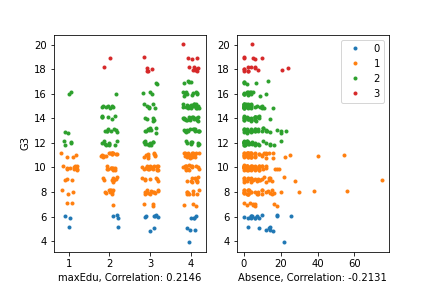
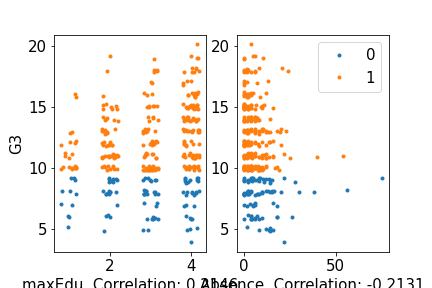
redid clasification to be binary for g3 < 10

diff --git a/loadData.py b/loadData.py
@@ -34,14 +34,10 @@ while index != len(Female): #Removing all instances where g3 is 0
 
 lg3=[]
 for index in g3:
-    if index <7:
+    if index <10:
         lg3.append(0)
-    elif index < 12:
-        lg3.append(1)
-    elif index < 18:
-        lg3.append(2)
     else:
-        lg3.append(3)
+        lg3.append(1)
 
 collected = [Female, Male, Age, study, absence, lg3, maxEdu]
 yrow = collected[col]   # what column is used for grouping
